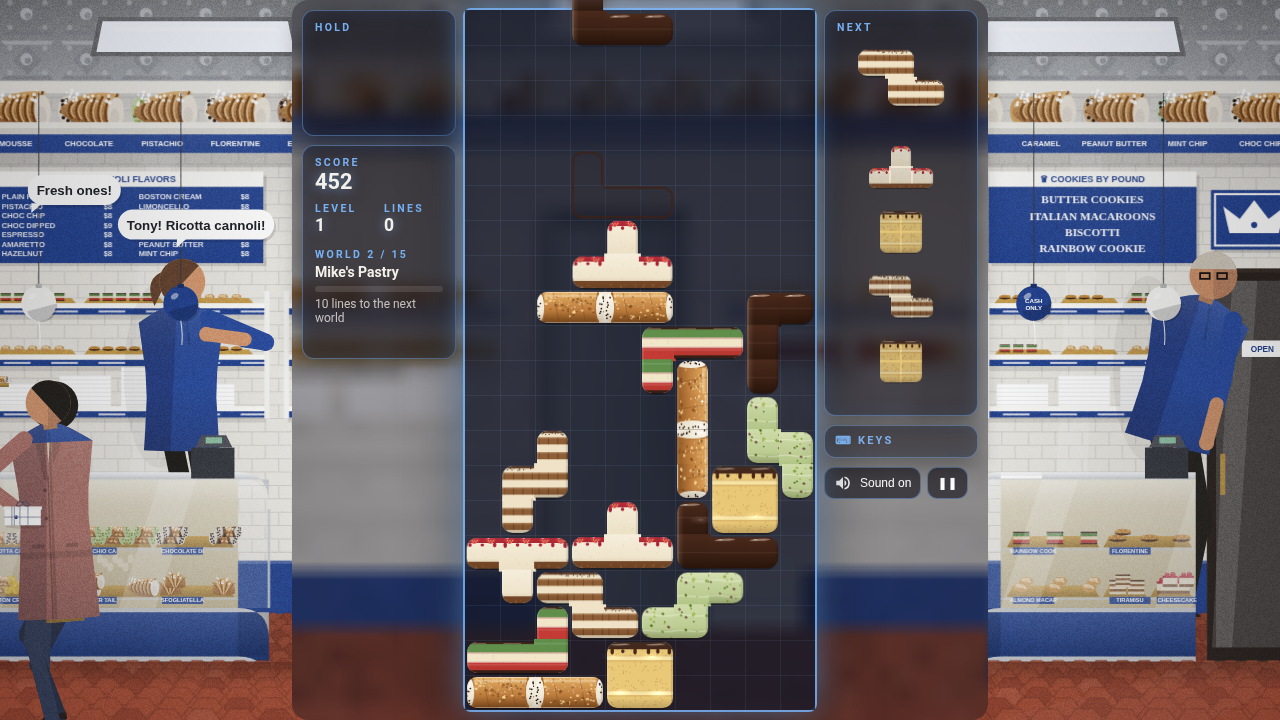
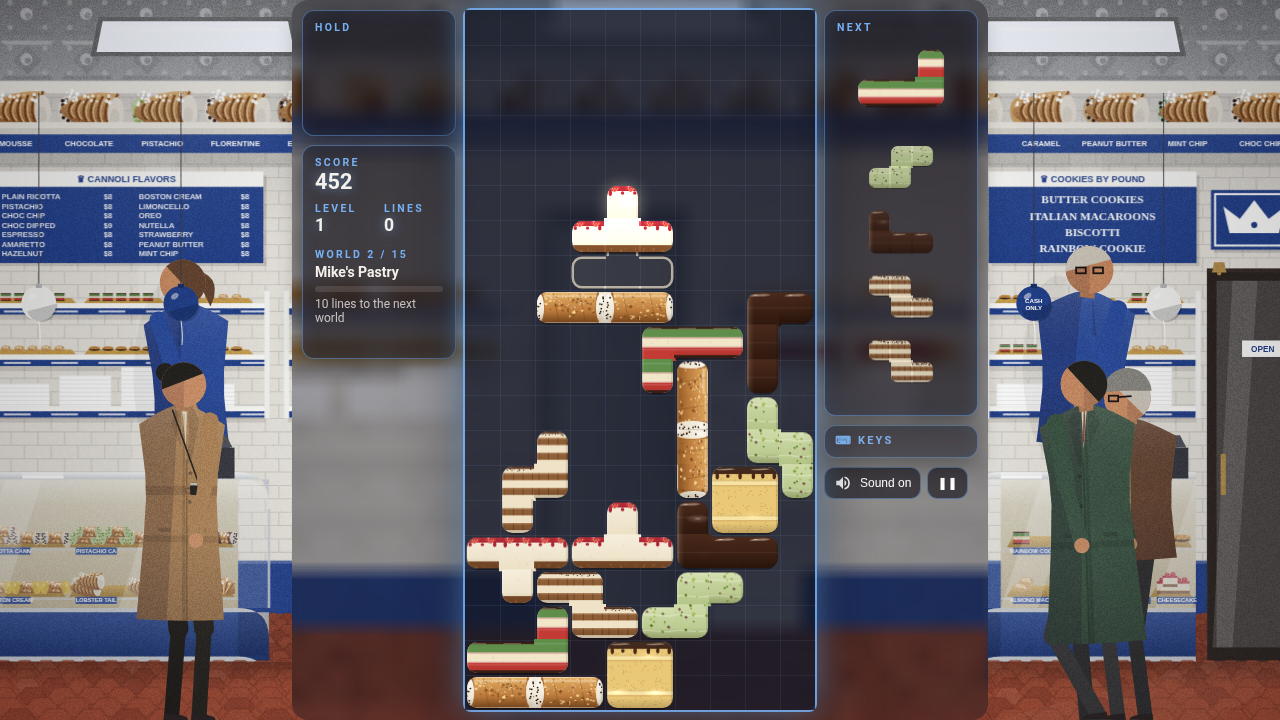
Rig: natural standing legs (feet under hips, no bent/crossed knees) — fixes Mike's tourist pose

diff --git a/index.html b/index.html
@@ -4358,7 +4358,7 @@ const GeoKit = (() => {
       a.lx = a.lxT = a.f; K.actors.push(a); K.settle(a); return a;
     };
     K.remove = (a) => { const i = K.actors.indexOf(a); if (i >= 0) K.actors.splice(i, 1); };
-    K.standHip = (a) => a.floorY - (a.def.adult ? 0.865 : 0.6) * a.def.T * (a.def.leg || 1) * a.sc;
+    K.standHip = (a) => a.floorY - (a.def.adult ? lerp(0.875, 0.865, a.wb || 0) : 0.6) * a.def.T * (a.def.leg || 1) * a.sc; // standing: legs nearly straight (no bent knees); walking: soft knees for the gait
     K.settle = (a) => { if (a.state === 'seated') a.hy = a.seatY; else a.hy = K.standHip(a); F.rig(a); K.basePose(a); a.hN.x = a.tgN[0]; a.hN.y = a.tgN[1]; a.hF.x = a.tgF[0]; a.hF.y = a.tgF[1]; F.rig(a); };
     K.start = (a, name, phases, o = {}) => { if (a.act) K.abort(a); a.act = Object.assign({ name, phases, i: 0, t: 0 }, o); a.hist.unshift(name); if (a.hist.length > 6) a.hist.length = 6; a.cool[name] = K.simT; return true; };
     K.endAct = (a) => { const A = a.act; a.act = null; a.shake = 0; a.headDy = 0; a.farFront = false; if (A && A.onEnd) A.onEnd(a); };
@@ -4391,8 +4391,9 @@ const GeoKit = (() => {
         const gait = (q) => q < 0.5 ? [A * (1 - 4 * q), 0] : [-A + 2 * A * smooth((q - 0.5) * 2), Math.sin(Math.PI * (q - 0.5) * 2) * T * 0.055];
         const gN = gait(p), gF = gait((p + 0.5) % 1), sw = Math.sin(a.t * 0.55 + a.id * 1.7);
         a.leanT = wb * 0.045 + a.posture * 0.6 + (1 - wb) * sw * 0.01; a.tiltT = 0;
-        a.fN = { x: a.hx + f * lerp(T * 0.055 + sw * T * 0.008, gN[0], wb), y: a.floorY - gN[1] * wb };
-        a.fF = { x: a.hx + f * lerp(-T * 0.035, gF[0], wb), y: a.floorY - gF[1] * wb };
+        const hw = R.hw || T * 0.25; // standing feet sit under the hips (no X-crossed or splayed legs)
+        a.fN = { x: a.hx + f * lerp(hw * 0.3 + T * 0.014 + sw * T * 0.006, gN[0], wb), y: a.floorY - gN[1] * wb };
+        a.fF = { x: a.hx + f * lerp(-hw * 0.22 + T * 0.004, gF[0], wb), y: a.floorY - gF[1] * wb };
         const st = wb * gN[0] / A; // arms counter-swing the legs
         a.tgN = [a.hx + f * T * 0.07 - st * T * 0.09 * f, a.hy + T * 0.03 - Math.abs(st) * T * 0.02]; a.tgF = [a.hx - f * T * 0.03 + st * T * 0.09 * f, a.hy + T * 0.01 - Math.abs(st) * T * 0.02];
         if (a.hold.N && (a.carryUp !== false)) a.tgN = [a.hx + f * T * 0.24, a.hy - T * 0.2];

diff --git a/src/12b_geo_kit.js b/src/12b_geo_kit.js
@@ -74,7 +74,7 @@ const GeoKit = (() => {
       a.lx = a.lxT = a.f; K.actors.push(a); K.settle(a); return a;
     };
     K.remove = (a) => { const i = K.actors.indexOf(a); if (i >= 0) K.actors.splice(i, 1); };
-    K.standHip = (a) => a.floorY - (a.def.adult ? 0.865 : 0.6) * a.def.T * (a.def.leg || 1) * a.sc;
+    K.standHip = (a) => a.floorY - (a.def.adult ? lerp(0.875, 0.865, a.wb || 0) : 0.6) * a.def.T * (a.def.leg || 1) * a.sc; // standing: legs nearly straight (no bent knees); walking: soft knees for the gait
     K.settle = (a) => { if (a.state === 'seated') a.hy = a.seatY; else a.hy = K.standHip(a); F.rig(a); K.basePose(a); a.hN.x = a.tgN[0]; a.hN.y = a.tgN[1]; a.hF.x = a.tgF[0]; a.hF.y = a.tgF[1]; F.rig(a); };
     K.start = (a, name, phases, o = {}) => { if (a.act) K.abort(a); a.act = Object.assign({ name, phases, i: 0, t: 0 }, o); a.hist.unshift(name); if (a.hist.length > 6) a.hist.length = 6; a.cool[name] = K.simT; return true; };
     K.endAct = (a) => { const A = a.act; a.act = null; a.shake = 0; a.headDy = 0; a.farFront = false; if (A && A.onEnd) A.onEnd(a); };
@@ -107,8 +107,9 @@ const GeoKit = (() => {
         const gait = (q) => q < 0.5 ? [A * (1 - 4 * q), 0] : [-A + 2 * A * smooth((q - 0.5) * 2), Math.sin(Math.PI * (q - 0.5) * 2) * T * 0.055];
         const gN = gait(p), gF = gait((p + 0.5) % 1), sw = Math.sin(a.t * 0.55 + a.id * 1.7);
         a.leanT = wb * 0.045 + a.posture * 0.6 + (1 - wb) * sw * 0.01; a.tiltT = 0;
-        a.fN = { x: a.hx + f * lerp(T * 0.055 + sw * T * 0.008, gN[0], wb), y: a.floorY - gN[1] * wb };
-        a.fF = { x: a.hx + f * lerp(-T * 0.035, gF[0], wb), y: a.floorY - gF[1] * wb };
+        const hw = R.hw || T * 0.25; // standing feet sit under the hips (no X-crossed or splayed legs)
+        a.fN = { x: a.hx + f * lerp(hw * 0.3 + T * 0.014 + sw * T * 0.006, gN[0], wb), y: a.floorY - gN[1] * wb };
+        a.fF = { x: a.hx + f * lerp(-hw * 0.22 + T * 0.004, gF[0], wb), y: a.floorY - gF[1] * wb };
         const st = wb * gN[0] / A; // arms counter-swing the legs
         a.tgN = [a.hx + f * T * 0.07 - st * T * 0.09 * f, a.hy + T * 0.03 - Math.abs(st) * T * 0.02]; a.tgF = [a.hx - f * T * 0.03 + st * T * 0.09 * f, a.hy + T * 0.01 - Math.abs(st) * T * 0.02];
         if (a.hold.N && (a.carryUp !== false)) a.tgN = [a.hx + f * T * 0.24, a.hy - T * 0.2];

diff --git a/PROGRESS.md b/PROGRESS.md
@@ -216,3 +216,8 @@ Shared engine (new):
 - Doorman moved to the door (x 30) and drawn behind the patrons; slimmer build.
 - Muted outfits: sailor in a plain navy peacoat (no stripes); the rig's dress tiers are now drawn at 30% (subtle fringe, not bands).
 - Shots: screenshot-geo-speakeasy-day.png (19:00), -night.png (22:00 rain).
+
+## Standing pose fix (all GeoKit worlds; reported on Mike's v3 day) — `src/12b_geo_kit.js`
+- Cause: standing feet were placed closer together than the hips (near foot +0.055T, near hip +0.3·hw) so the legs converged into an X, and the standing hip sat 1.5% below full leg length so the knees visibly bent.
+- Fix: standing feet now sit under the hips (slight natural A-stance, near foot a touch forward), and the standing hip height blends from 0.875T (still) to 0.865T (walking) so legs are nearly straight at rest while the gait keeps soft knees.
+- Shots: screenshot-geo-mikes-day.png (11:00, the white-shirt tourist), screenshot-geo-mikes-night.png (20:00 rain).
